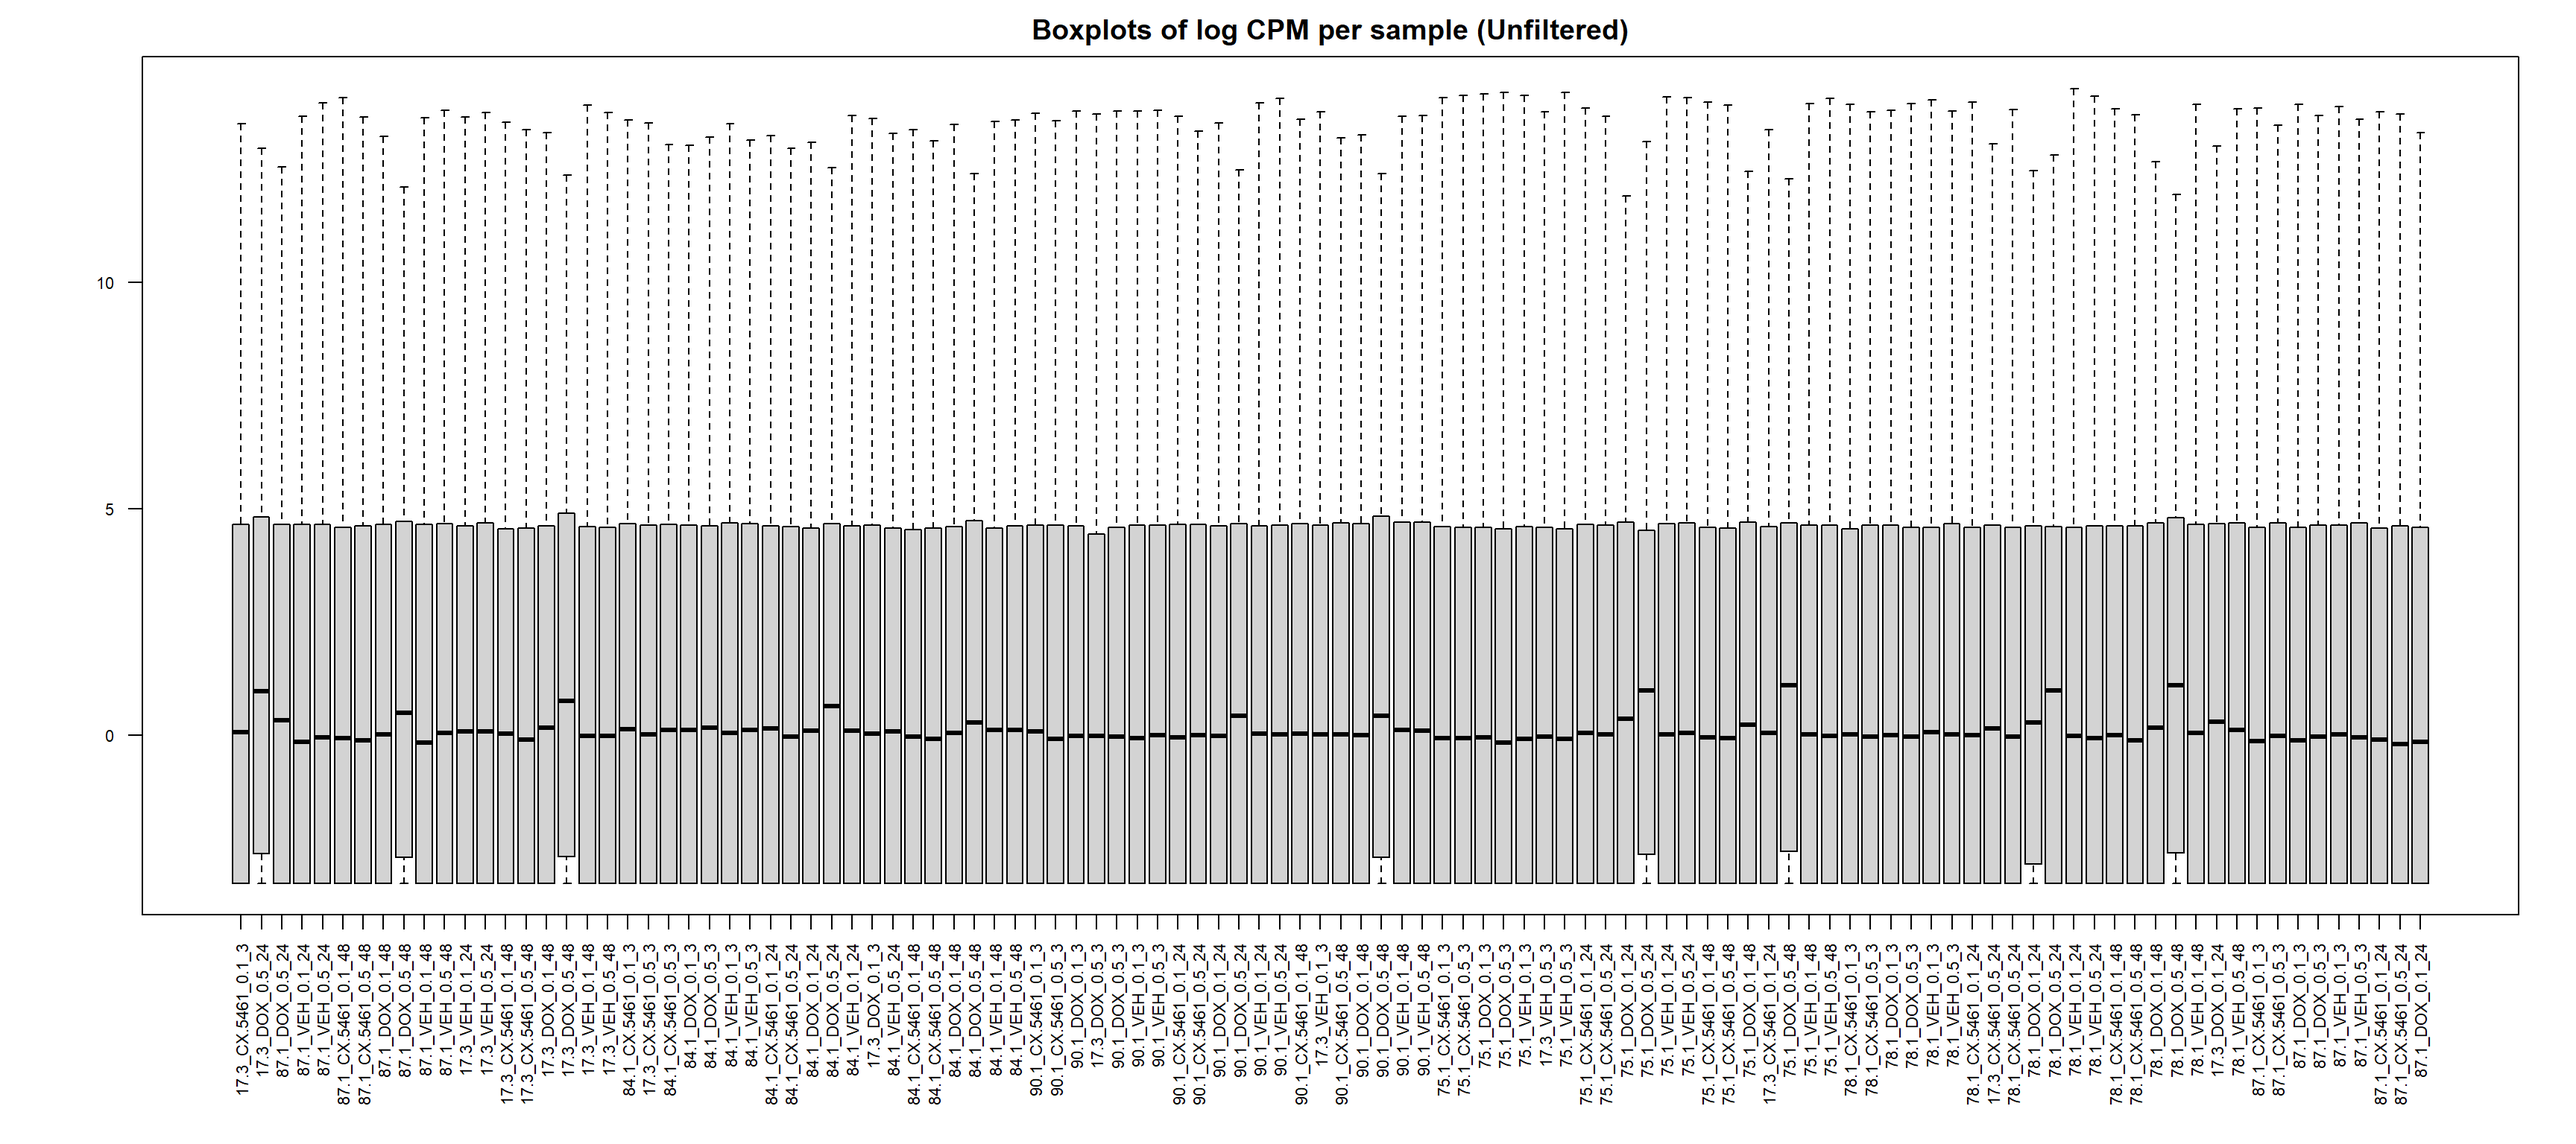
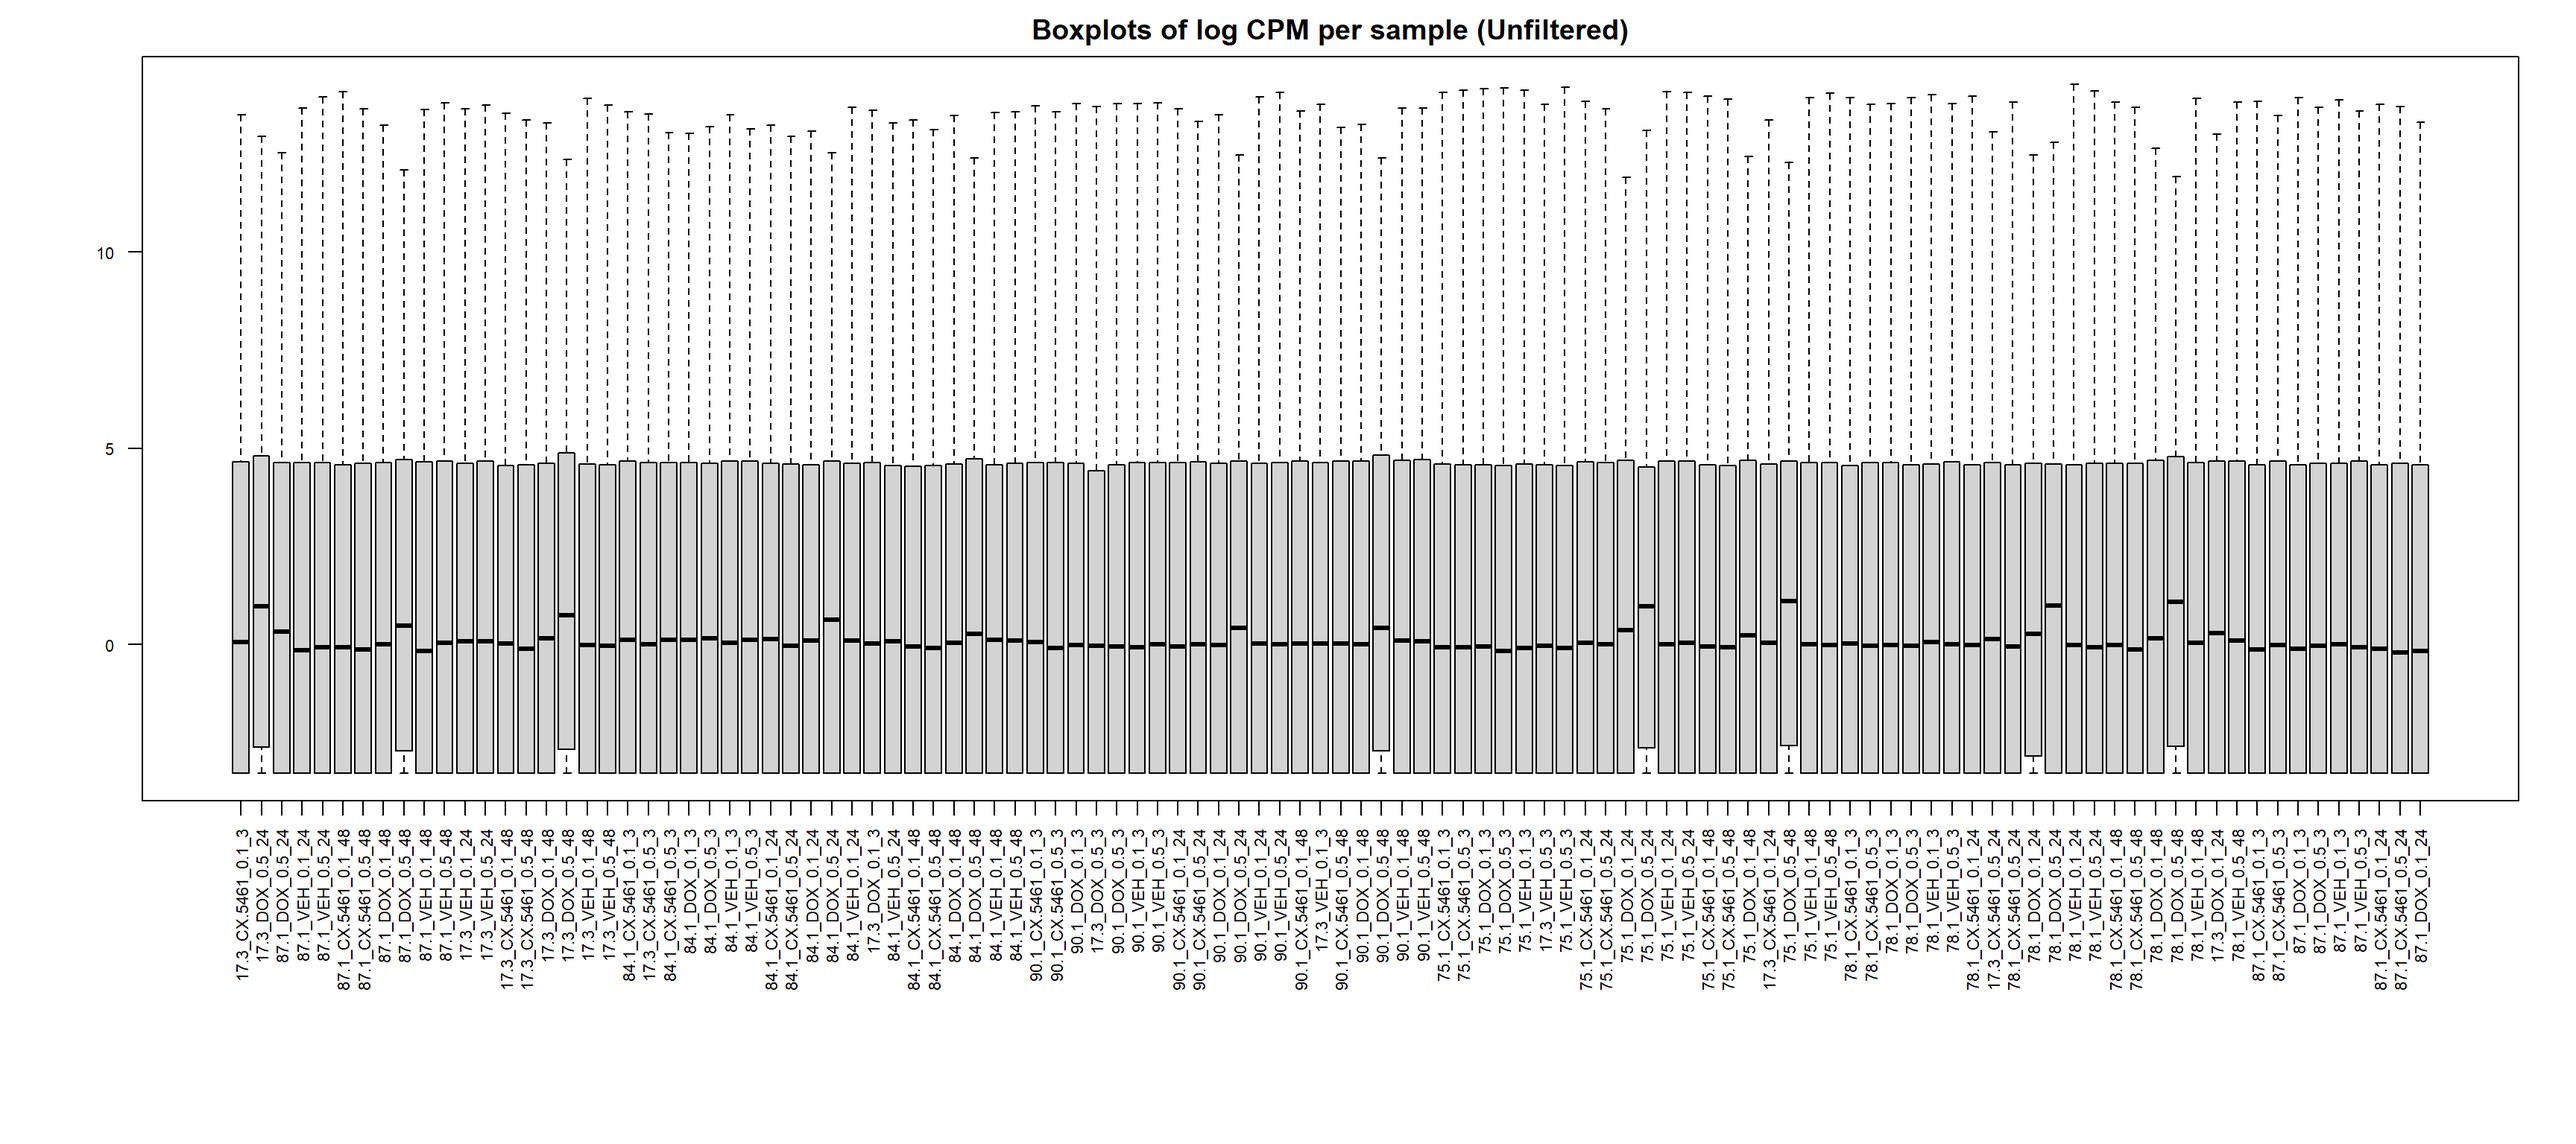
Build site.

Changed region(s): [[0.0625, 0.625, 0.9688, 0.9688], [0.0625, 0.375, 0.9688, 0.4688]]

diff --git a/docs/count_matrix_analysis.html b/docs/count_matrix_analysis.html
@@ -513,15 +513,15 @@ project makes it easier to run your code on other machines.</p>
 <div class="panel panel-default">
 <div class="panel-heading">
 <p class="panel-title">
-<a data-toggle="collapse" data-parent="#workflowr-checks" href="#strongRepositoryversionstrongahrefhttpsgithubcomsayanpaul01CX5461Projecttree1e321a05cda8d37655b0e2ad737f0369d35c7144targetblank1e321a0a">
+<a data-toggle="collapse" data-parent="#workflowr-checks" href="#strongRepositoryversionstrongahrefhttpsgithubcomsayanpaul01CX5461Projecttree8bb6749fb9101c1b7aed989580bf63a9a00869e1targetblank8bb6749a">
 <span class="glyphicon glyphicon-ok text-success"
 aria-hidden="true"></span> <strong>Repository version:</strong>
-<a href="https://github.com/sayanpaul01/CX5461_Project/tree/1e321a05cda8d37655b0e2ad737f0369d35c7144" target="_blank">1e321a0</a>
+<a href="https://github.com/sayanpaul01/CX5461_Project/tree/8bb6749fb9101c1b7aed989580bf63a9a00869e1" target="_blank">8bb6749</a>
 </a>
 </p>
 </div>
 <div
[2 lines of base64/hex data omitted]
 class="panel-collapse collapse">
 <div class="panel-body">
 <p>
@@ -531,7 +531,7 @@ reproducibility.
 </p>
 <p>
 The results in this page were generated with repository version
-<a href="https://github.com/sayanpaul01/CX5461_Project/tree/1e321a05cda8d37655b0e2ad737f0369d35c7144" target="_blank">1e321a0</a>.
+<a href="https://github.com/sayanpaul01/CX5461_Project/tree/8bb6749fb9101c1b7aed989580bf63a9a00869e1" target="_blank">8bb6749</a>.
 See the <em>Past versions</em> tab to see a history of the changes made
 to the R Markdown and HTML files.
 </p>
@@ -594,6 +594,40 @@ Message
 </tr>
 </thead>
 <tbody>
+<tr>
+<td>
+Rmd
+</td>
+<td>
+<a href="https://github.com/sayanpaul01/CX5461_Project/blob/8bb6749fb9101c1b7aed989580bf63a9a00869e1/analysis/count_matrix_analysis.Rmd" target="_blank">8bb6749</a>
+</td>
+<td>
+sayanpaul01
+</td>
+<td>
+2025-01-31
+</td>
+<td>
+wflow_publish("analysis/count_matrix_analysis.Rmd")
+</td>
+</tr>
+<tr>
+<td>
+html
+</td>
+<td>
+<a href="https://rawcdn.githack.com/sayanpaul01/CX5461_Project/663ff7f47ffa46d8d4580cc3f938d6abb944992f/docs/count_matrix_analysis.html" target="_blank">663ff7f</a>
+</td>
+<td>
+sayanpaul01
+</td>
+<td>
+2025-01-31
+</td>
+<td>
+Build site.
+</td>
+</tr>
 <tr>
 <td>
 Rmd
@@ -1576,7 +1610,7 @@ sayanpaul01
 <div id="boxplots-of-log-cpm-per-sample" class="section level3">
 <h3><strong>📌 Boxplots of Log CPM Per Sample</strong></h3>
 <pre class="r"><code># Set margin parameters to prevent X-axis label cutoff
-par(mar = c(8,5,2,2))
+par(mar = c(12,5,2,2))
 
 # Boxplot of log CPM per sample (Unfiltered)
 boxplot(lcpm, 
@@ -1606,6 +1640,17 @@ Date
 </tr>
 </thead>
 <tbody>
+<tr>
+<td>
+<a href="https://github.com/sayanpaul01/CX5461_Project/blob/663ff7f47ffa46d8d4580cc3f938d6abb944992f/docs/figure/count_matrix_analysis.Rmd/box_lCPM-1.png" target="_blank">663ff7f</a>
+</td>
+<td>
+sayanpaul01
+</td>
+<td>
+2025-01-31
+</td>
+</tr>
 <tr>
 <td>
 <a href="https://github.com/sayanpaul01/CX5461_Project/blob/1183177f550c810116e58b222ed55583be60d554/docs/figure/count_matrix_analysis.Rmd/box_lCPM-1.png" target="_blank">1183177</a>
@@ -1653,6 +1698,17 @@ Date
 </tr>
 </thead>
 <tbody>
+<tr>
+<td>
+<a href="https://github.com/sayanpaul01/CX5461_Project/blob/663ff7f47ffa46d8d4580cc3f938d6abb944992f/docs/figure/count_matrix_analysis.Rmd/box_lCPM0-1.png" target="_blank">663ff7f</a>
+</td>
+<td>
+sayanpaul01
+</td>
+<td>
+2025-01-31
+</td>
+</tr>
 <tr>
 <td>
 <a href="https://github.com/sayanpaul01/CX5461_Project/blob/1183177f550c810116e58b222ed55583be60d554/docs/figure/count_matrix_analysis.Rmd/box_lCPM0-1.png" target="_blank">1183177</a>
@@ -1703,6 +1759,17 @@ Date
 <tbody>
 <tr>
 <td>
+<a href="https://github.com/sayanpaul01/CX5461_Project/blob/663ff7f47ffa46d8d4580cc3f938d6abb944992f/docs/figure/count_matrix_analysis.Rmd/box_lCPM0.5-1.png" target="_blank">663ff7f</a>
+</td>
+<td>
+sayanpaul01
+</td>
+<td>
+2025-01-31
+</td>
+</tr>
+<tr>
+<td>
 <a href="https://github.com/sayanpaul01/CX5461_Project/blob/1183177f550c810116e58b222ed55583be60d554/docs/figure/count_matrix_analysis.Rmd/box_lCPM0.5-1.png" target="_blank">1183177</a>
 </td>
 <td>
@@ -1749,6 +1816,17 @@ Date
 </tr>
 </thead>
 <tbody>
+<tr>
+<td>
+<a href="https://github.com/sayanpaul01/CX5461_Project/blob/663ff7f47ffa46d8d4580cc3f938d6abb944992f/docs/figure/count_matrix_analysis.Rmd/box_lCPM1-1.png" target="_blank">663ff7f</a>
+</td>
+<td>
+sayanpaul01
+</td>
+<td>
+2025-01-31
+</td>
+</tr>
 <tr>
 <td>
 <a href="https://github.com/sayanpaul01/CX5461_Project/blob/1183177f550c810116e58b222ed55583be60d554/docs/figure/count_matrix_analysis.Rmd/box_lCPM1-1.png" target="_blank">1183177</a>
